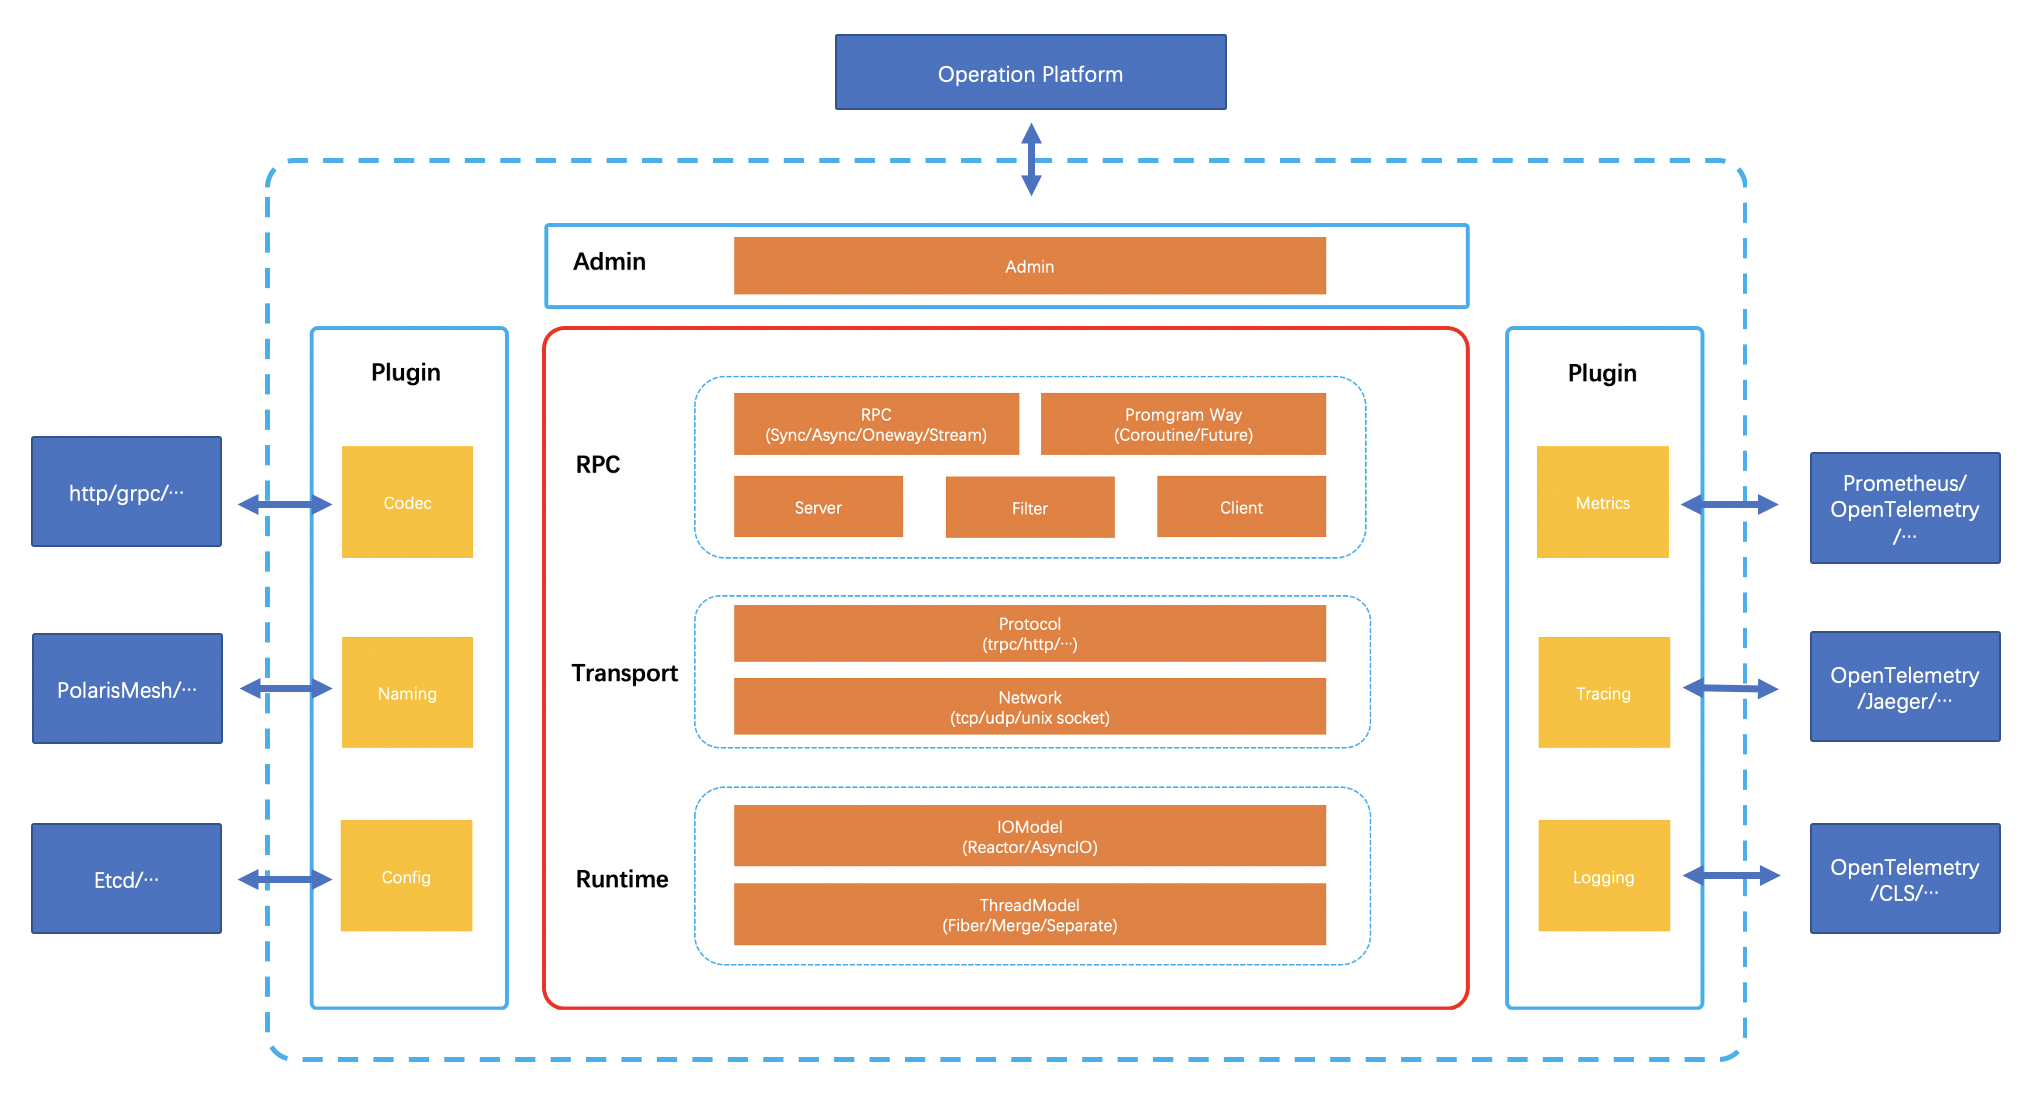
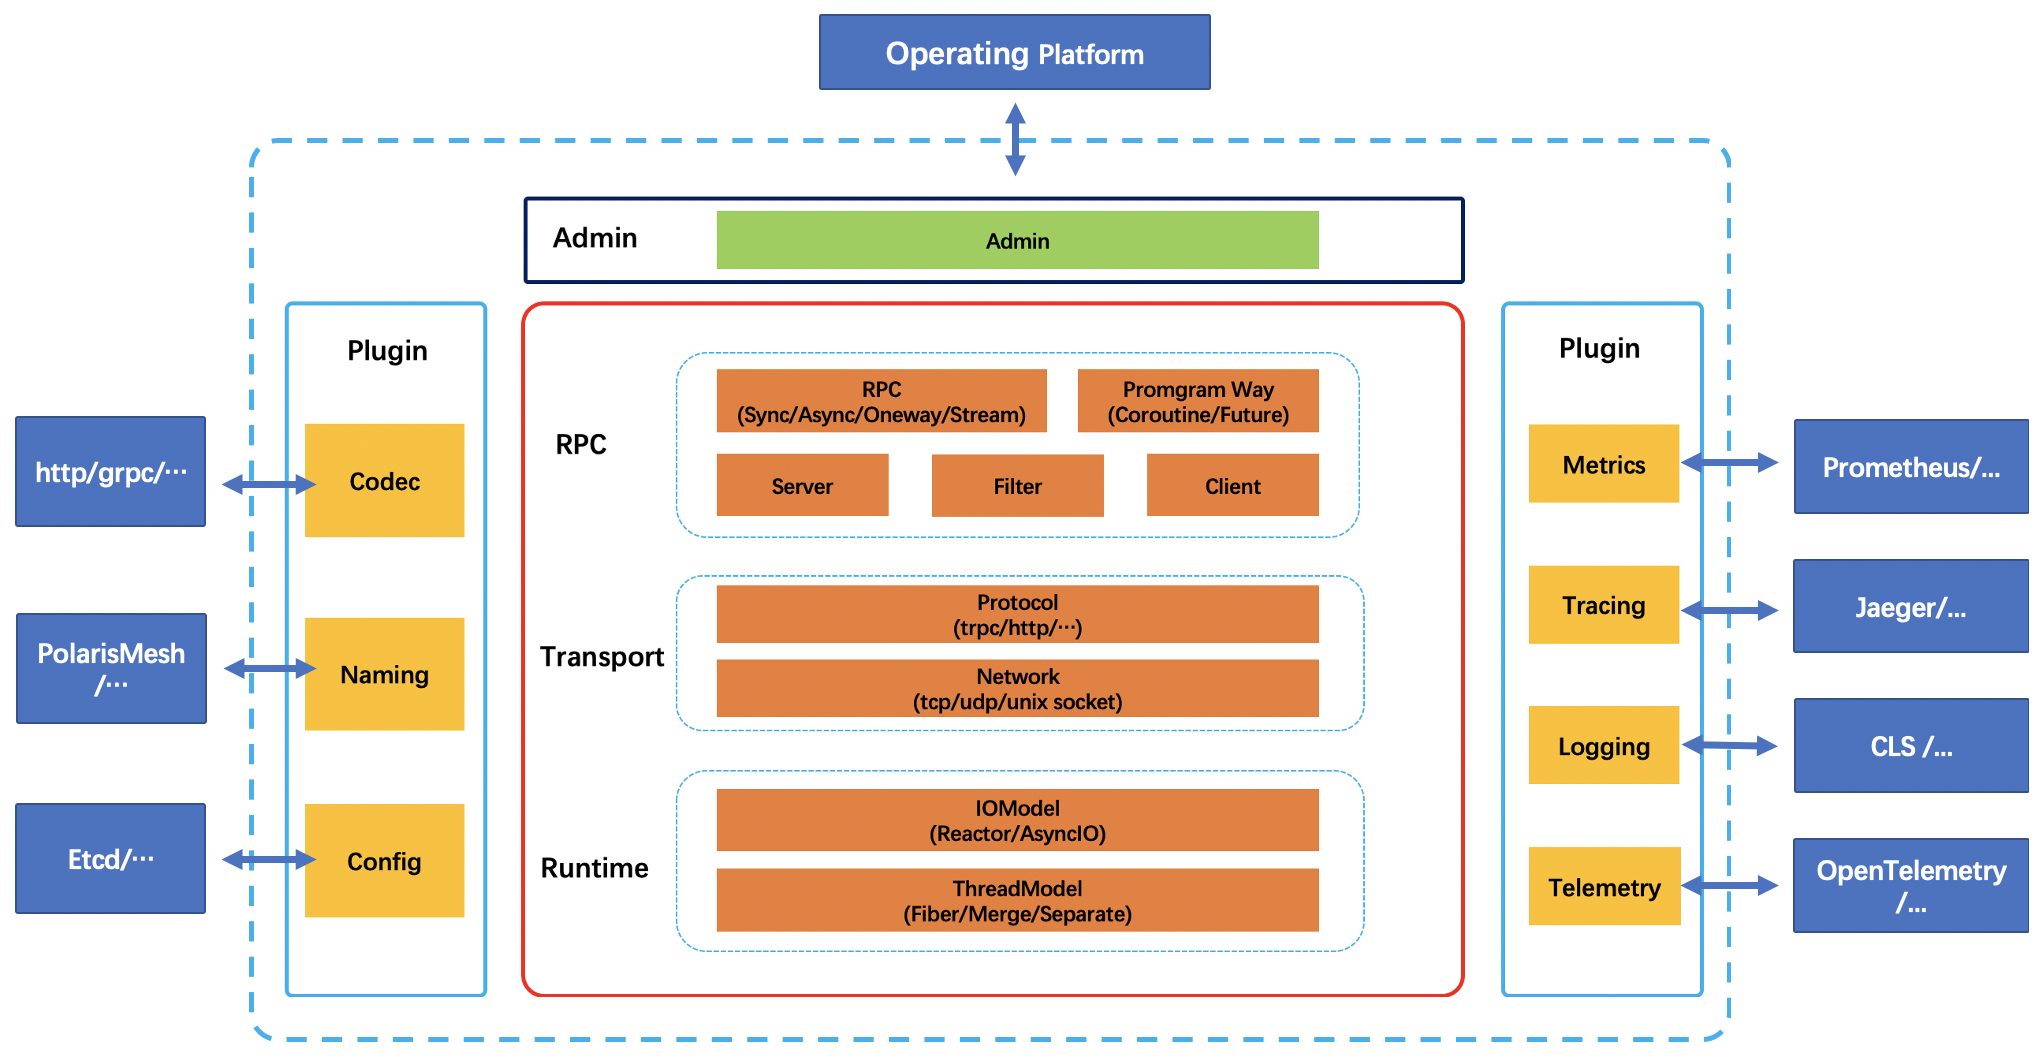
Docs: update README

Changed region(s): [[0.0, 0.0, 1.0, 0.9962], [0.3394, 0.3425, 0.6787, 0.4981]]

diff --git a/docs/en/architecture_design.md b/docs/en/architecture_design.md
@@ -9,7 +9,7 @@ This article mainly introduces the specific architecture design of tRPC-Cpp, whi
 The main content is divided into two parts:
 - Introduce the overall architecture design and code directory structure of tRPC-Cpp, so that everyone can have a general understanding;
 - Introduce the server and client workflow of tRPC-Cpp, so that everyone can understand the working principle of server and client;
-- Introduce the plug-in design of tRPC-Cpp, so that everyone can understand the specific implementation mechanism of plug-in;
+- Introduce the pluggable design of tRPC-Cpp, so that everyone can understand the specific implementation mechanism of plugin;
 
 # Architecture design
 
@@ -17,17 +17,17 @@ The overall architecture of tRPC-Cpp is designed as follows:
 
 ![architecture_design](../images/arch_design.png)
 
-The overall architecture consists of two parts: "**framework core**" and "**plugins**". As shown in the figure above, the dotted box is tRPC, and the red solid line box in the middle is the framework core, and the blue box is the plugin part.
+The overall architecture consists of two parts: "**framework core**" and "**plugins**". As shown in the figure above, the dotted box is tRPC. The red solid line box in the middle is the framework core, and the blue box is the plugin part.
 
 The framework core can be divided into three layers:
 
-- **Runtime**: It consists of thread model and io model, responsible for the scheduling of framework tasks and IO processing, thread model currently supports: ordinary thread model (io and handle separated or merged thread model), M:N coroutine model (fiber thread model), io model currently supports: reactor model for network IO and asyncIO model for disk io(based on io-uring, currently only supported in the merged thread model);
+- **Runtime**: It consists of thread model and io model, responsible for scheduling of framework cpu tasks and io operations. thread model currently supports: ordinary thread model (io/handle separated or merged thread model), M:N coroutine model (fiber thread model). io model currently supports: reactor model for network IO and asyncIO model for disk io(based on io-uring, currently only supported in the merged thread model);
 
-- **Transport**: Responsible for data transmission and protocol encoding and decoding. The framework supports communication protocols such as tcp/udp/unix-socket. The transmission protocol uses the proto-based tRPC protocol to carry RPC calls, and also supports using other protocol through codec plug-in;
+- **Transport**: Responsible for data transmission and protocol encoding and decoding. The framework currently supports tcp/udp/unix-socket and uses the tRPC protocol to carry RPC messages, and also supports other protocol through codec plugin;
 
-- **RPC**: Encapsulate services and service proxy entities, provide RPC call interfaces, and support business calls between services in synchronous, asynchronous, one-way, and streaming calls;
+- **RPC**: Encapsulates services and service proxy entities, provides RPC interfaces and support synchronous, asynchronous, one-way, and streaming calls;
 
-In addition, the framework also provides an admin management interface, which is convenient for users or operating platforms to manage services by calling the admin interface. The management interface includes functions such as updating configuration, viewing version, modifying log level, viewing framework runtime information, and the framework also supports user Customize the management interface to meet the needs of business customization.
+In addition, the framework also provides an admin management interface, which is convenient for users or operating platforms to manage services. The management interface includes functions such as updating configuration, viewing version, modifying log level, viewing framework runtime information, and the framework also supports user  interface to meet the customized needs.
 
 The main directory structure of the tRPC-Cpp framework is designed as follows:
 
@@ -37,18 +37,18 @@ It is mainly composed of three parts: "**Framework Core Implementation**", "**Se
 
 The implementation of framework core mainly includes the following modules:
 - server: provides a service implementation that supports multi-service, registration, unregistration, smooth exit, etc.;
-- client: provides a concurrent and safe general-purpose client implementation, which is mainly responsible for operations related to rpc calls, service discovery, load balancing, circuit breaker, encoding and decoding, and custom filter. All parts support plug-in extensions;
+- client: provides a concurrent and safe general-purpose client implementation, which is mainly responsible for operations related to rpc calls, service discovery, load balancing, circuit breaker, encoding and decoding, and custom filter. All parts support plugin extensions;
 - codec: provides codec-related interfaces, allowing the framework to expand multi protocols, serialization methods, data compression methods, etc.;
 - transport: provides the ability of network transmission, supports transmission methods such as tcp/udp/ssl/unix-socket;
 - runtime: provides the implementation of the framework runtime environment, encapsulates the thread model and io model, supports m:n coroutine (fiber) model, io and handle separation, and model thread model;
 - filter: provides the definition of a custom filter, implements the extension capability, such as tracing, metrics, logreplay, etc.;
 
-The service governance plug-in implementation mainly includes the following modules:
+The service governance plugin implementation mainly includes the following modules:
 - naming: provides service registration (registry), service discovery (selector), load balancing (loadbalance), circuit breaker (circuitbreaker) and other capability packaging, used to connect to various name service systems;
-- config: provides an interface related to configuration reading, supports reading local configuration files, remote configuration center configuration, etc., allows plug-in extensions to support configuration files in different formats, different configuration centers, and supports reload and watch configuration updates;
+- config: provides an interface related to configuration reading, supports reading local configuration files, remote configuration center configuration, etc., allows plugin extensions to support configuration files in different formats, different configuration centers, and supports reload and watch configuration updates;
 - metrics: Provides the ability to collect and report monitoring data, supports common single-dimensional reporting, such as counter, gauge, etc., and also supports multi-dimensional reporting, allowing different monitoring systems to be connected by extending the Sink interface;
-- logging: provides a general log collection interface, allowing the log implementation to be extended through plug-ins, allowing the log to be output to the remote;
-- tracing: provides distributed tracing capabilities, allowing reporting to the tracing system through plug-ins;
+- logging: provides a general log collection interface, allowing the log implementation to be extended through plugins, allowing the log to be output to the remote;
+- tracing: provides distributed tracing capabilities, allowing reporting to the tracing system through plugins;
 
 ## Interaction process
 
@@ -66,7 +66,7 @@ The server startup process roughly includes the following processes:
 2. Read the framework configuration file (specified by --config), the configuration here includes the configuration information of global, server, service, client, plugin, etc.;
      1. Read global configuration information, initialize and start the runtime environment of the framework, runtime includes threading model and network model, etc.;
      2. Read server/service, client configuration, initialize TrpcServer and TrpcClient;
-     3. Read the plugin plug-in configuration to complete the initialization logic of various plug-ins;
+     3. Read the plugin configuration to complete the initialization logic of various plugins;
 3. Run the `Initilize` method of the `TrpcApp` business subclass to complete the initialization of the business code;
      1. Various initialization logics of the business itself;
      2. Call `RegisterService` to complete service registration and start monitoring network requests;
@@ -94,7 +94,7 @@ The service exit process generally includes the following processes:
 2. Wait for all requests received by the server to be processed;
 3. Close the server network connection;
 4. Call the `Destroy` method of the `TrpcApp` business subclass to stop the dynamic resources created by the business (for example: started threads);
-5. Stop the dynamic resources created by the plug-in (for example: threads started inside the plug-in);
+5. Stop the dynamic resources created by the plugins (for example: threads started inside the plugins);
 6. Stop the framework runtime environment runtime;
 7. Release the resources inside the runtime environment of the framework;
 8. Release the internal resources of the framework operating environment TrpcServer;
@@ -105,7 +105,7 @@ The service exit process generally includes the following processes:
 
 1. When sending a request, first assemble various call parameters;
 2. Execute the pre-logic of client filter;
-3. Find a set of ip:port lists corresponding to the called service name through the service discovery plug-in;
+3. Find a set of ip:port lists corresponding to the called service name through the service discovery plugin;
 4. Through the load balancing algorithm and circuit breaker policy, find a suitable ip:port;
 5. Serialize, compress, and encode request data;
 6. Then prepare to establish a connection to ip:port. At this time, it will first check whether there is a corresponding available connection in ClientTransport, and create it if not;
@@ -113,18 +113,18 @@ The service exit process generally includes the following processes:
 8. Receive the reponse data, decode, decompress, and deserialize, and submit it to the upper layer for processing;
 9. Execute the post-logic of client filter;
 
-## Plug-in design
+## Pluggable design
 
-The plug-in architecture design of tRPC is mainly based on "**plug-in factory based on interface mechanism**" and "**filter based on AOP**".
+The pluggable architecture design of tRPC is based on "**plugin factory based on interface mechanism**" and "**filter based on AOP**".
 
-### Plug-in factory
+### Plugin factory
 
-The tRPC core framework adopts the idea of interface-based programming, by abstracting the framework functions into a series of plug-ins, registering them in the plug-in factory. The tRPC framework is responsible for connecting these plug-ins to assemble complete functions. The plug-in model can be divided into the following three parts:
-1. Framework: the framework only defines the standard interface, without any plug-in implementation, decoupled from the specific implementation;
-2. Plug-in implementation: the plug-in can be realized by encapsulating the plug-in according to the framework standard interface;
-3. User: business developer only needs to use the plug-ins you need;
+The tRPC core framework adopts the idea of interface-based programming, by abstracting the framework functions into a series of plugins, registering them in the plugin factory. The tRPC framework is responsible for connecting these plugins to assemble complete functions. The plugin model can be divided into the following three parts:
+1. Framework: the framework only defines the standard interface, without any plugin implementation, decoupled from the specific implementation;
+2. Plugin implementation: the plugin can be realized by encapsulating the plugin according to the framework standard interface;
+3. User: business developer only needs to use the plugins you need;
 
-The plug-in implementation of a typical framework connecting name service system is as follows:
+The plugin implementation of a typical framework connecting name service system is as follows:
 
 ![plugin_factory](../images/plugin_factory.png)
 
@@ -140,4 +140,4 @@ The workflow of the interceptor filter is as follows:
 ![fitler](../images/filter.png)
 
 The ultimate purpose of the interceptor is to allow business logic and framework
-Decoupling and allowing cohesive development of each. You can add or replace different plug-in implementations through configuration without modifying the source code.
+Decoupling and allowing cohesive development of each. You can add or replace different plugin implementations through configuration without modifying the source code.

diff --git a/README.md b/README.md
@@ -2,19 +2,31 @@ English | [中文](README.zh_CN.md)
 
 # tRPC-Cpp
 
-**tRPC-Cpp is the cpp version of tRPC. It follows the overall design principles of tRPC. It is mainly an RPC framework designed with high performance and plug-in.**
+**tRPC-Cpp is the cpp version of tRPC, it follows the overall design principles of tRPC. **
 
-## Architecture Design
+## Overall Architecture
 
 ![architecture design](docs/images/arch_design.png)
+
+The overall architecture consists of two parts: "**framework core**" and "**plugins**". As shown in the figure above, the dotted box is tRPC. The red solid line box in the middle is the framework core, and the blue box is the plugin part.
+
+The framework core can be divided into three layers:
+
+- **Runtime**: It consists of thread model and io model, responsible for scheduling of framework cpu tasks and io operations. thread model currently supports: ordinary thread model (io/handle separated or merged thread model), M:N coroutine model (fiber thread model). io model currently supports: reactor model for network IO and asyncIO model for disk io(based on io-uring, currently only supported in the merged thread model);
+
+- **Transport**: Responsible for data transmission and protocol encoding and decoding. The framework currently supports tcp/udp/unix-socket and uses the tRPC protocol to carry RPC messages, and also supports other protocol through codec plugin;
+
+- **RPC**: Encapsulates services and service proxy entities, provides RPC interfaces and support synchronous, asynchronous, one-way, and streaming calls;
+
+In addition, the framework also provides an admin management interface, which is convenient for users or operating platforms to manage services. The management interface includes functions such as updating configuration, viewing version, modifying log level, viewing framework runtime information, and the framework also supports user  interface to meet the customized needs.
 
 more details：[architecture design](docs/en/architecture_design.md)
 
 ## Features
 
 * Runtime
-  * thread-model: `fiber(m:n coroutine)` and `thread(io/handle merge or separate)`
-  * io-model: `reactor(for network)` and `async-io(for disk)`
+  * thread-model: support`fiber(m:n coroutine)` and `thread(io/handle merge or separate)`
+  * io-model: support `reactor(for network)` and `async-io(for disk)`
 * Server
   * network: support `tcp/udp/ssl/unix domain socket`
   * rpc-impl: support `rpc/stream-rpc/non-rpc`
@@ -54,4 +66,4 @@ more details：[architecture design](docs/en/architecture_design.md)
 
 ## How to contribute
 
-If you're interested in contributing, please take a look at the [CONTRIBUTING](CONTRIBUTING.md) and check the [unassigned issues][issues] in the repository. Claim a task and let's contribute together to tRPC-Cpp.
+If you're interested in contributing, please take a look at the [CONTRIBUTING](CONTRIBUTING.md) and check the [unassigned issues](https://github.com/trpc-group/trpc-cpp/issues) in the repository. Claim a task and let's contribute together to tRPC-Cpp.
